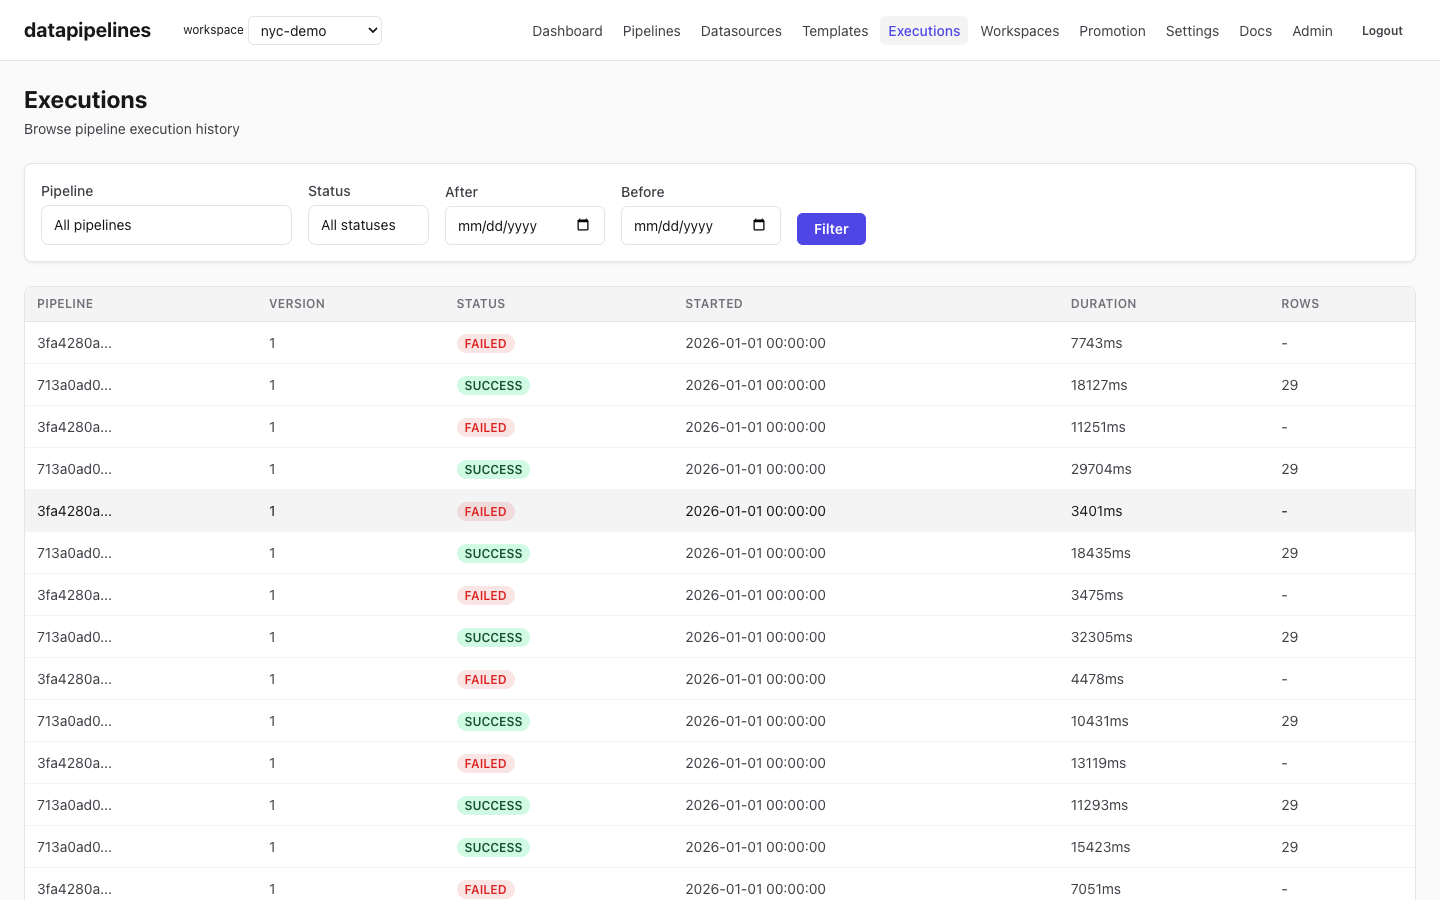
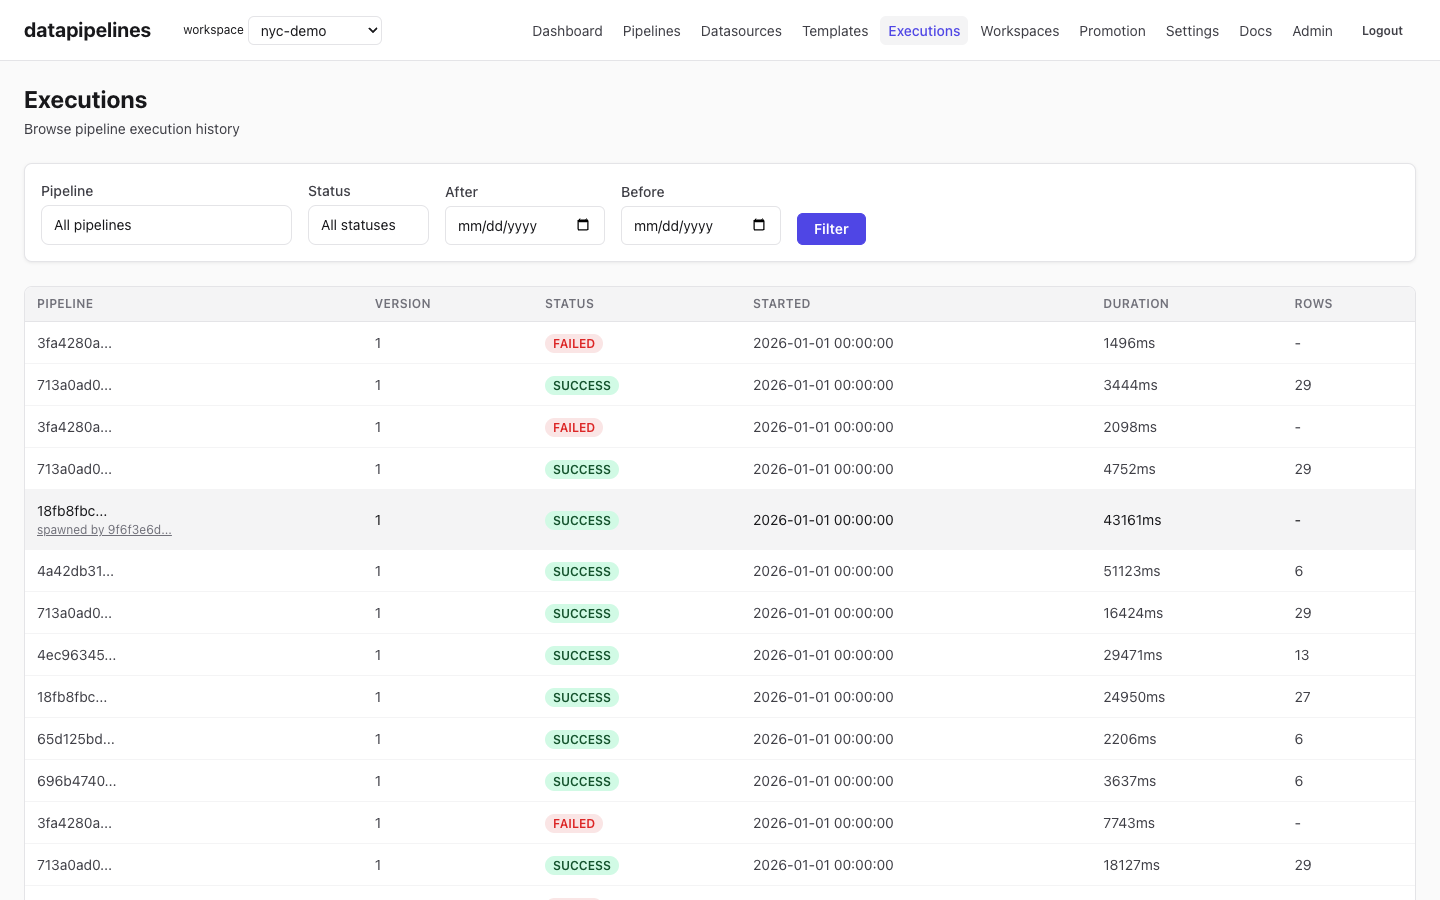
fix(site): detekt and ktlint on the new driver — and a promotion skip that says what is wrong
The gate's first run died in :modules:auth:test (a Keycloak Testcontainer
start timeout on a loaded box) and therefore never reached detekt. The second
run got there and found three real violations in SiteShotsMain.kt, all mine:

  NestedBlockDepth        main()'s three nested `use` blocks
  MatchingDeclarationName file SiteShotsMain.kt vs object SiteShots
  MaxLineLength           the waitFor() one-liner

The session lifetime moves into withSignedInPage(), so main() reads as the six
steps it is and every resource still closes in reverse order on any exit path;
the object takes the file's name (070 §C names the file, so the file wins).
ktlintFormat over the whole tree then caught SiteRenderTest too — the first red
task had been hiding it, which is the standing lesson about re-running lint for
the WHOLE tree after fixing a lint failure.

Also: the promotion shot's skip now names the actual blocker. Stopping the
receiver stack made the screen render `pipeline.promotion.target_unreachable`,
and the driver skipped it — correctly, since photographing an error page and
shipping it as "here is promotion" is exactly the mocked visual this task
exists to prevent — but it reported "no promotion target configured", which was
not true. It now prints the state it actually found and points at the receiver
recipe.

Verified after the rename: ktlintCheck + detekt --rerun-tasks over the whole
tree exit 0 (78 tasks), and `./gradlew siteShots` still writes all 12 PNGs with
[…]

diff --git a/tests/browser-tests/src/test/kotlin/co/datapipelines/browser/SiteShotsMain.kt b/tests/browser-tests/src/test/kotlin/co/datapipelines/browser/SiteShotsMain.kt
@@ -51,7 +51,7 @@ import java.nio.file.Paths
  * Run it twice and the PNGs are byte-identical; that property is the point, and the round
  * that added this task proved it rather than asserting it.
  */
-object SiteShots {
+object SiteShotsMain {
     private const val VIEWPORT_W = 1440
     private const val VIEWPORT_H = 900
 
@@ -78,27 +78,39 @@ object SiteShots {
         }
         Files.createDirectories(outDir)
 
-        Playwright.create().use { pw ->
-            pw.chromium().launch(BrowserType.LaunchOptions().setHeadless(true)).use { browser ->
-                val context =
-                    browser.newContext(
-                        Browser.NewContextOptions()
-                            .setViewportSize(VIEWPORT_W, VIEWPORT_H)
-                            .setDeviceScaleFactor(1.0)
-                            .setColorScheme(ColorScheme.LIGHT)
-                            .setReducedMotion(ReducedMotion.REDUCE),
-                    )
-                context.use {
+        val taken = withSignedInPage(email, password) { page -> Shots(page).captureAll() }
+        println("siteShots: wrote ${taken.size} PNGs to ${outDir.toAbsolutePath()}")
+        taken.forEach { println("  $it") }
+    }
+
+    /**
+     * Owns the whole browser session — Playwright, the browser, the context — so [main] reads as
+     * the six steps it is and each resource still closes in reverse order on any exit path.
+     */
+    private fun <T> withSignedInPage(
+        email: String,
+        password: String,
+        block: (Page) -> T,
+    ): T =
+        Playwright.create().use { playwright ->
+            playwright.chromium().launch(BrowserType.LaunchOptions().setHeadless(true)).use { browser ->
+                browser.newContext(contextOptions()).use { context ->
                     val page = context.newPage()
                     signIn(page, email, password)
                     assertLightTheme(page)
-                    val taken = Shots(page).captureAll()
-                    println("siteShots: wrote ${taken.size} PNGs to ${outDir.toAbsolutePath()}")
-                    taken.forEach { println("  $it") }
+                    block(page)
                 }
             }
         }
-    }
+
+    /** Fixed viewport at scale 1, light, reduced motion — the determinism contract, in one place. */
+    private fun contextOptions(): Browser.NewContextOptions =
+        Browser
+            .NewContextOptions()
+            .setViewportSize(VIEWPORT_W, VIEWPORT_H)
+            .setDeviceScaleFactor(1.0)
+            .setColorScheme(ColorScheme.LIGHT)
+            .setReducedMotion(ReducedMotion.REDUCE)
 
     private fun prop(
         key: String,
@@ -135,7 +147,9 @@ object SiteShots {
     }
 
     /** Every capture goes through here, so no shot can skip the determinism steps. */
-    internal class Shots(private val page: Page) {
+    internal class Shots(
+        private val page: Page,
+    ) {
         private val written = mutableListOf<String>()
 
         fun captureAll(): List<String> {
@@ -236,9 +250,19 @@ object SiteShots {
                 page.locator("td:has-text('$SECOND_WORKSPACE')").first().waitFor()
             }
             check(page.locator("#workspace-switcher").count() == 1) { "no workspace switcher on the page" }
-            check(page.locator("table").first().locator("tbody tr").count() >= 2) {
+            check(
+                page
+                    .locator("table")
+                    .first()
+                    .locator("tbody tr")
+                    .count() >= 2,
+            ) {
                 "the workspaces shot needs two workspaces; the screen shows " +
-                    page.locator("table").first().locator("tbody tr").count()
+                    page
+                        .locator("table")
+                        .first()
+                        .locator("tbody tr")
+                        .count()
             }
             shoot("workspaces.png")
         }
@@ -258,7 +282,9 @@ object SiteShots {
             selectNodeOnCanvas(0)
             // The resolved SQL is fetched server-side; the spinner leaving is the release signal.
             page.locator("#pe-node-sql-spinner").waitFor(
-                com.microsoft.playwright.Locator.WaitForOptions().setState(WaitForSelectorState.HIDDEN),
+                com.microsoft.playwright.Locator
+                    .WaitForOptions()
+                    .setState(WaitForSelectorState.HIDDEN),
             )
             waitFor("#pe-node-sql")
             shoot("node-inspector.png")
@@ -284,7 +310,9 @@ object SiteShots {
             // of the flow, not of this state.
             page.locator("button:has-text('Dismiss')").first().click()
             page.locator("button:has-text('Dismiss')").first().waitFor(
-                com.microsoft.playwright.Locator.WaitForOptions().setState(WaitForSelectorState.HIDDEN),
+                com.microsoft.playwright.Locator
+                    .WaitForOptions()
+                    .setState(WaitForSelectorState.HIDDEN),
             )
             // The chain is the point of the shot (dag-executor §8.4) — open every collapsed level.
             page.locator(".pe-error-exception details").all().forEach { it.evaluate("e => e.open = true") }
@@ -301,10 +329,22 @@ object SiteShots {
         private fun promotion() {
             page.navigate("$baseUrl/promotion")
             waitFor("body")
-            // No configured target renders the "names the two config keys" state (ui-screens
-            // §4.17) — a truthful screen, but not the one the shot list asks for.
-            if (page.locator("text=/promotion.target|not configured|No target/i").count() > 0) {
-                println("  SKIP promotion.png — this deployment has no promotion target configured")
+            // Three states are truthful but are NOT the one the shot list asks for: no target
+            // configured, target unreachable, and target refusing (ui-screens §4.17). Skip
+            // loudly on any of them — photographing an error page and shipping it as "here is
+            // promotion" is the mocked visual this whole task exists to avoid. The shot needs a
+            // live receiver; DEVELOPMENT.md §9.0 says how to run one.
+            val blocked =
+                page.locator("text=/target_unreachable|target_is_authoring|not configured|No target/i")
+            if (blocked.count() > 0) {
+                val why =
+                    blocked
+                        .first()
+                        .innerText()
+                        .take(80)
+                        .replace("\n", " ")
+                println("  SKIP promotion.png — the promotion target is not usable right now: $why")
+                println("         (start a receiver — deployment.md §6.3A — and re-run for this shot)")
                 return
             }
             waitFor(".ds-table, .ds-empty")
@@ -319,7 +359,9 @@ object SiteShots {
          * nobody looks unless the images are produced for them.
          */
         private fun sitePageReview() {
-            val dir = java.nio.file.Paths.get(prop("shots.review", "build/site-review"))
+            val dir =
+                java.nio.file.Paths
+                    .get(prop("shots.review", "build/site-review"))
             Files.createDirectories(dir)
             listOf("site-1440.png" to 1440, "site-390.png" to 390).forEach { (file, width) ->
                 page.setViewportSize(width, VIEWPORT_H)
@@ -332,7 +374,8 @@ object SiteShots {
                 page.waitForLoadState(com.microsoft.playwright.options.LoadState.NETWORKIDLE)
                 settle()
                 page.screenshot(
-                    Page.ScreenshotOptions()
+                    Page
+                        .ScreenshotOptions()
                         .setPath(dir.resolve(file))
                         .setFullPage(true)
                         .setAnimations(com.microsoft.playwright.options.ScreenshotAnimations.DISABLED)
@@ -364,7 +407,9 @@ object SiteShots {
             // The terminal state, not a timeout: the Execute button re-enables when the stream
             // ends (x-bind:disabled="isExecuting").
             page.locator("button:has-text('Execute'):not([disabled])").waitFor(
-                com.microsoft.playwright.Locator.WaitForOptions().setTimeout(EXECUTION_TIMEOUT_MS),
+                com.microsoft.playwright.Locator
+                    .WaitForOptions()
+                    .setTimeout(EXECUTION_TIMEOUT_MS),
             )
         }
 
@@ -433,13 +478,15 @@ object SiteShots {
         }
 
         private fun dismissSecretReveal() {
-            page.locator(".ds-modal-close, button:has-text('Done'), button:has-text('Close')")
+            page
+                .locator(".ds-modal-close, button:has-text('Done'), button:has-text('Close')")
                 .all()
                 .filter { it.isVisible }
                 .forEach { it.click() }
         }
 
-        private fun waitFor(selector: String): ElementHandle? = page.waitForSelector(selector, Page.WaitForSelectorOptions().setTimeout(WAIT_MS))
+        private fun waitFor(selector: String): ElementHandle? =
+            page.waitForSelector(selector, Page.WaitForSelectorOptions().setTimeout(WAIT_MS))
 
         /**
          * Everything that must be true before the shutter: fonts resolved (a fallback face
@@ -459,7 +506,8 @@ object SiteShots {
             settle()
             val target = outDir.resolve(file)
             page.screenshot(
-                Page.ScreenshotOptions()
+                Page
+                    .ScreenshotOptions()
                     .setPath(target)
                     .setClip(0.0, 0.0, VIEWPORT_W.toDouble(), VIEWPORT_H.toDouble())
                     .setAnimations(com.microsoft.playwright.options.ScreenshotAnimations.DISABLED)

diff --git a/modules/web/src/test/kotlin/co/datapipelines/web/ui/SiteRenderTest.kt b/modules/web/src/test/kotlin/co/datapipelines/web/ui/SiteRenderTest.kt
@@ -5,11 +5,11 @@ import io.kotest.matchers.shouldBe
 import io.kotest.matchers.string.shouldContain
 import io.kotest.matchers.string.shouldNotContain
 import org.junit.jupiter.api.Test
+import org.springframework.core.io.support.PathMatchingResourcePatternResolver
 import org.springframework.http.HttpHeaders
 import org.springframework.mock.web.MockHttpServletRequest
 import org.springframework.mock.web.MockHttpServletResponse
 import org.springframework.mock.web.MockServletContext
-import org.springframework.core.io.support.PathMatchingResourcePatternResolver
 import org.springframework.ui.ExtendedModelMap
 import org.thymeleaf.context.WebContext
 import org.thymeleaf.spring6.SpringTemplateEngine
@@ -107,8 +107,13 @@ class SiteRenderTest {
 
         val uncited =
             cards
-                .filter { card -> CLAIM.find(card)?.range?.first?.let { it < card.indexOf("<h3") } != true }
-                .map { card -> HEADING.find(card)?.groupValues?.get(1) ?: card.take(120) }
+                .filter { card ->
+                    CLAIM
+                        .find(card)
+                        ?.range
+                        ?.first
+                        ?.let { it < card.indexOf("<h3") } != true
+                }.map { card -> HEADING.find(card)?.groupValues?.get(1) ?: card.take(120) }
         uncited shouldBe emptyList()
 
         val resolver = PathMatchingResourcePatternResolver(javaClass.classLoader)
@@ -168,6 +173,5 @@ class SiteRenderTest {
         val CLAIM_COMMENT = Regex("""<!--\s*claim:.*?-->""", RegexOption.DOT_MATCHES_ALL)
         val DOC_PATH = Regex("""docs/[A-Za-z0-9._/-]+\.md""")
         val HEADING = Regex("""<h3>(.*?)</h3>""", RegexOption.DOT_MATCHES_ALL)
-
     }
 }
